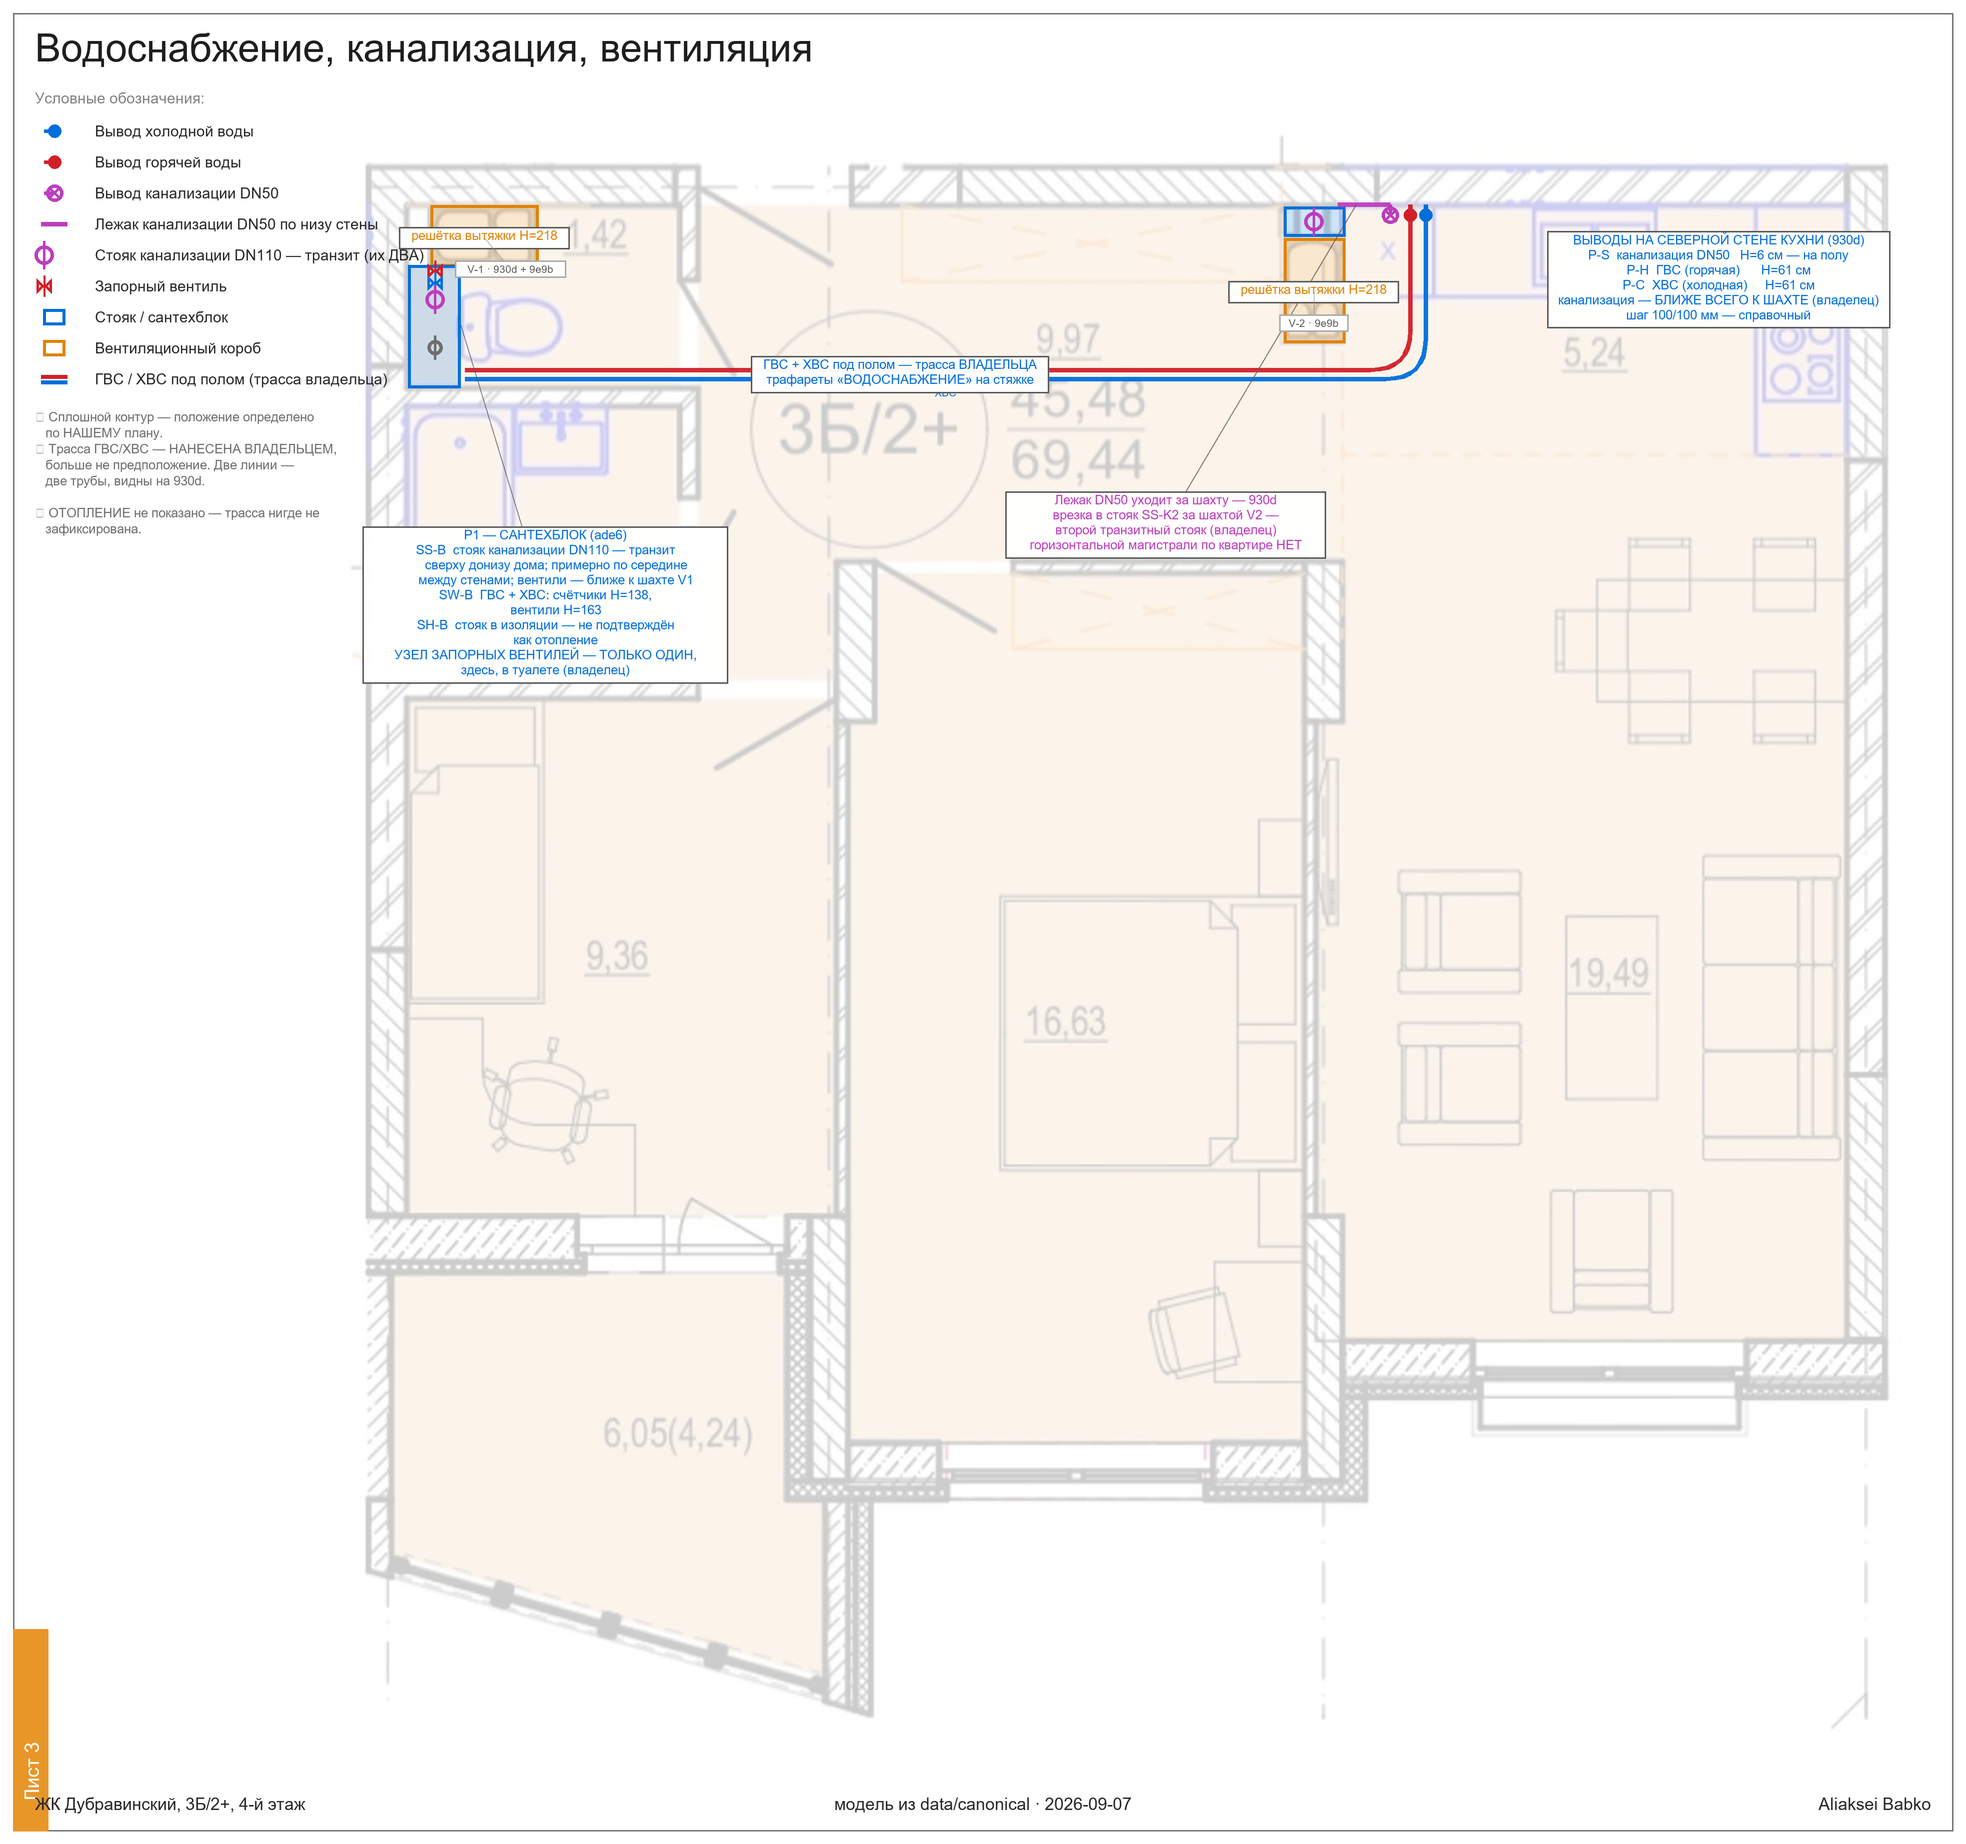
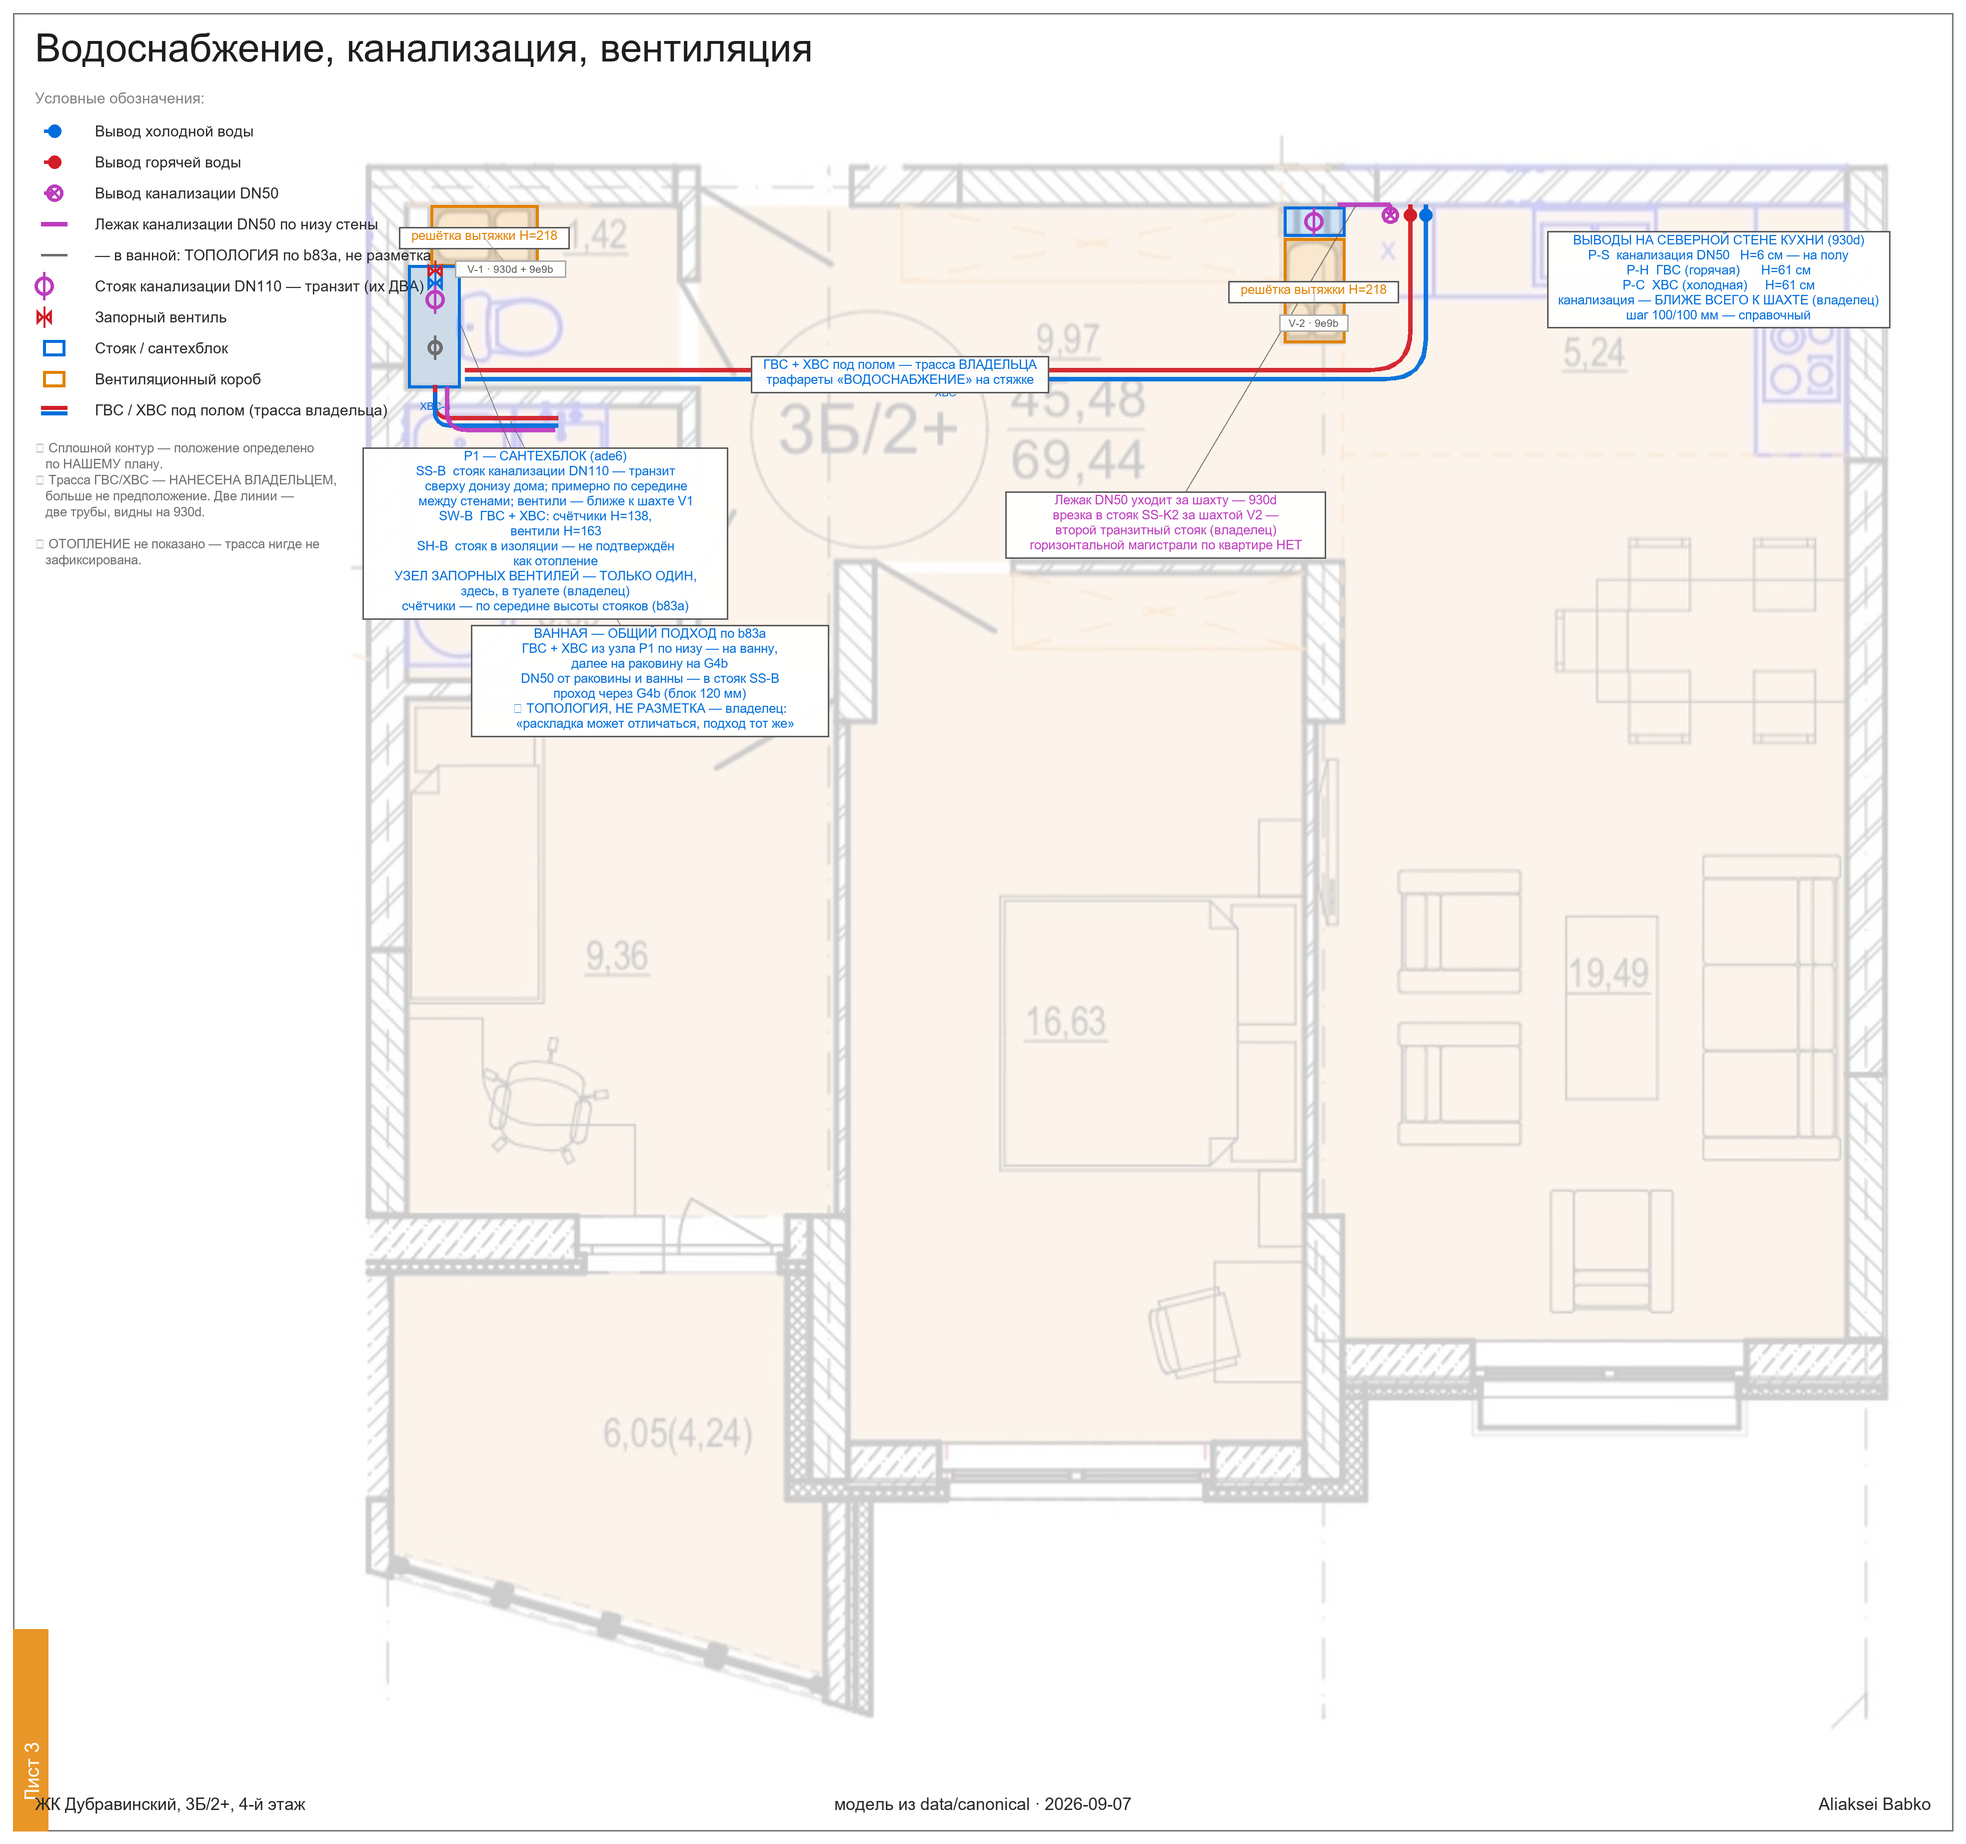
Apply b83a: the wet-room topology, and the bathroom I had left empty
The owner's annotated WC photo, given as the pattern for the valve node and
the water runs: risers in the niche at the far end, two water meters at mid
height on them, and all three services dropping and leaving the room at low
level - his own label reads "to the bathroom."

What it exposed is worse than what it taught. My sheet had NOTHING in the
bathroom. A bath and a basin are on the plan and always were, and I had drawn
neither water nor drain to either. That is the third omission of the same kind
today - the sewer run, P1's own block, now an entire wet room - and the
largest. Each time the finding existed and the drawing did not carry it.

Drawn as topology, not setting-out, in his own framing: GVS+HVS from the P1
node south through G4b to the bath, on east to the basin; DN50 from basin and
bath back into the SS-B stack. On our plan this is about a metre of pipe,
because P1 sits directly north of the bath's head with only G4b between - the
shortness is a check on the reading, not a coincidence.

The G4b penetration is stated as a fact and given no derived consequence.
That is the specific thing that went wrong with the retracted lezhak.

Nothing drawn from the two circled slots at the top of the niche - could be
the side voids he mentioned earlier or the ceiling penetrations, and I cannot
tell from the photo.

Changed region(s): [[0.0, 0.1236, 0.4344, 0.4018]]

diff --git a/tools/layout/sheets/make_services_sheets.py b/tools/layout/sheets/make_services_sheets.py
@@ -219,6 +219,8 @@ s3.legend(lambda x, y, c: s3.sym_pipe(x - 20, y, 1, 0, c, 'water'), u'Вывод
 s3.legend(lambda x, y, c: s3.sym_pipe(x - 20, y, 1, 0, c, 'sewer'), u'Вывод канализации DN50', MG)
 s3.legend(lambda x, y, c: s3.d.line([(x - 26, y), (x + 26, y)], fill=MG, width=9),
           u'Лежак канализации DN50 по низу стены', MG)
+s3.legend(lambda x, y, c: s3.d.line([(x - 26, y), (x + 26, y)], fill=GY, width=5),
+          u'— в ванной: ТОПОЛОГИЯ по b83a, не разметка', GY)
 s3.legend(lambda x, y, c: s3.sym_riser(x - 20, y, c, dn=True),
           u'Стояк канализации DN110 — транзит (их ДВА)', MG)
 s3.legend(lambda x, y, c: s3.sym_valve(x - 20, y, c), u'Запорный вентиль', R)
@@ -292,9 +294,33 @@ SEWER = [(707.22765, 69.9953), (672, 69.9953)]
 # whether the evidence REQUIRED it. Consequence: the 125 mm screed-fall warning
 # and the G4C penetration were both consequences of an element that is not there.
 
+# ============ ВЫВОДЫ В ВАННУЮ — топология из b83a ============
+# b83a (the owner’s annotated photo of a туалет in a comparable flat) shows the
+# arrangement he wants applied: the ГВС / ХВС / канализация risers stand in the
+# niche at the far end, the two water meters sit at mid height on the risers,
+# and all three services then drop and leave the туалет AT LOW LEVEL — his
+# label on the photo reads “to the bathroom”.
+#
+# My sheet had NOTHING in the ванная. A bath and a basin were on the plan the
+# whole time and I had drawn no water and no drain to either. Third omission of
+# the same kind in one day, and the biggest.
+#
+# On our plan this is a very short route, which is itself a check on the
+# reading: P1 (x 52..87, y 110..192) sits directly NORTH of the bath’s head
+# (bath x 52..123, y 202..378) with only G4b between them, and the basin is on
+# G4b just east of it (x 125..185). So “to the bathroom” is a metre of pipe.
+#
+# ⚠ TOPOLOGY, NOT A SETTING-OUT. His words: “the specific layout could be
+# different … but the general approach is the same”, and more examples are
+# coming. Positions within the ванная are indicative and the sheet says so.
+BATH_W = [(70, 190), (70, 212), (152, 212)]          # ГВС+ХВС: P1 -> ванна -> раковина
+BATH_S = [(150, 220), (78, 220), (78, 191)]          # DN50: раковина/ванна -> стояк SS-B
+
 ROUTES = [(u'ГВС', R, [(90, 180), (720.49225, 180), (720.49225, 69.9953)]),
           (u'ХВС', B, [(90, 186), (730.70995, 186), (730.70995, 69.9953)]),
-          (u'DN50', MG, SEWER)]
+          (u'DN50', MG, SEWER),
+          (u'ГВС-в', R, BATH_W), (u'ХВС-в', B, [(p[0], p[1] + 5) for p in BATH_W]),
+          (u'DN50-в', MG, BATH_S)]
 
 # no routed segment may cross a shaft or a plumbing block. The junction check
 # taught this — a check that cannot fail is not a check.
@@ -305,12 +331,14 @@ for lbl, col, route in ROUTES:
     # not by loosening the tolerance until the check stops complaining.
     # each route is exempted only from the block it TAKES OFF FROM or RUNS
     # INTO - by name, not by loosening the tolerance until the check goes quiet.
-    conn = ('P2',) if col is MG else ('P1',)
+    # every route here either takes off from a block or runs into one;
+    # exempt only that block, by name.
+    conn = ('P2',) if route is SEWER else ('P1',)
     bad = route_block_conflicts(route, BLOCKS, clear_mm=60.0, connects=conn)
     if bad:
         raise SystemExit(u'%s route crosses a service block: %s' % (lbl, u'; '.join(bad)))
     s3.polyline_rounded(route, col, width=9, offset=0.0, r_mm=260.0)
-    if col is not MG:   # the sewer run is short; its label would sit on the block
+    if col is not MG and route is not BATH_W:   # short runs: label would sit on a block
         m = s3.P(((route[0][0] + route[1][0]) / 2.0, route[0][1] + (-5 if col is R else 9)))
         s3.d.text(m, lbl, fill=col, font=s3.f_src, anchor='mm')
 print(u'  route/block clearance: %d routes, all clear of %d blocks, 1 turn each'
@@ -411,6 +439,13 @@ for iid, bx, by, col, kind, nt, src in P1SVC:
                    'position_basis': 'inside P1 per service_outlets.csv; '
                                      'arrangement WITHIN the block indicative',
                    'owner_verdict': '', 'owner_correction': ''})
+s3.callout(*(list(s3.P((120, 214))) + [[u'ВАННАЯ — ОБЩИЙ ПОДХОД по b83a',
+                                        u'ГВС + ХВС из узла P1 по низу — на ванну,',
+                                        u'далее на раковину на G4b',
+                                        u'DN50 от раковины и ванны — в стояк SS-B',
+                                        u'проход через G4b (блок 120 мм)',
+                                        u'⚠ ТОПОЛОГИЯ, НЕ РАЗМЕТКА — владелец:',
+                                        u'   «раскладка может отличаться, подход тот же»'], B, (280, 520)]))
 s3.callout(*(list(s3.P((87, 150))) + [[u'P1 — САНТЕХБЛОК (ade6)',
                                        u'SS-B  стояк канализации DN110 — транзит',
                                        u'      сверху донизу дома; примерно по середине',
@@ -420,7 +455,8 @@ s3.callout(*(list(s3.P((87, 150))) + [[u'P1 — САНТЕХБЛОК (ade6)',
                                        u'SH-B  стояк в изоляции — не подтверждён',
                                        u'      как отопление',
                                        u'УЗЕЛ ЗАПОРНЫХ ВЕНТИЛЕЙ — ТОЛЬКО ОДИН,',
-                                       u'здесь, в туалете (владелец)'], B, (170, 560)]))
+                                       u'здесь, в туалете (владелец)',
+                                       u'счётчики — по середине высоты стояков (b83a)'], B, (170, 560)]))
 
 
 
